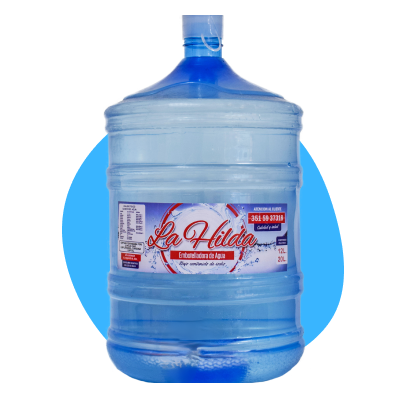
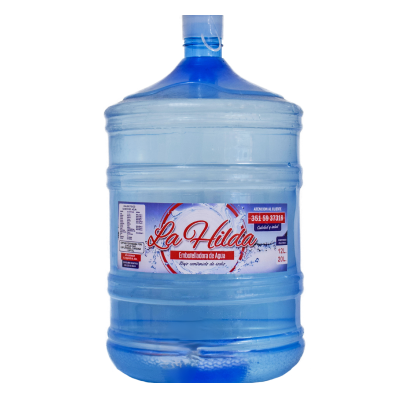
commit con imagenes sin fondo y bg ligthblue

Changed region(s): [[0.15, 0.33, 0.3, 0.87], [0.72, 0.36, 0.87, 0.87]]

diff --git a/src/components/products/Productos.jsx b/src/components/products/Productos.jsx
@@ -5,11 +5,11 @@ import ProductosRetornables from "./ProductosRetornables";
 
 const Productos = () => {
   return (
-    <section className=" pt-10">
+    <section className="bg-gradient-to-b from-[#52c1fd54] to-[#52c1fd2a] pt-10">
       <h2 className="bg-[#39B5FF] text-shadow-separador w-max ml-4  px-2 py-1 f-mplus font-bold text-2xl text-white rounded-[3px] text-center mt-12 shadow-portada lg:text-3xl lg:ml-12 lg:py-2 lg:px-3">
         NUESTROS PRODUCTOS
       </h2>
-      <div>
+      <div className="">
         <h4 className="bg-[#39B5FF] text-shadow-separador w-max f-mplus font-bold text-xs text-white rounded-[3px] p-1 shadow-portada mx-4 mt-12 mb-4 lg:ml-12 lg:text-base">
           LINEA DE MESA
         </h4>
@@ -17,7 +17,7 @@ const Productos = () => {
           <ProductosDeMesa data={data} />
         </div>
       </div>
-      <div className="bg-productosRetornables p-px pb-10">
+      <div className=" p-px pb-10">
         <h3 className="bg-[#39B5FF] text-shadow-separador w-max f-mplus font-bold text-xs text-white rounded-[3px] p-1 shadow-portada  mx-4 mt-12 mb-4 lg:ml-12 lg:text-base">
           LINEA RETORNABLE
         </h3>
